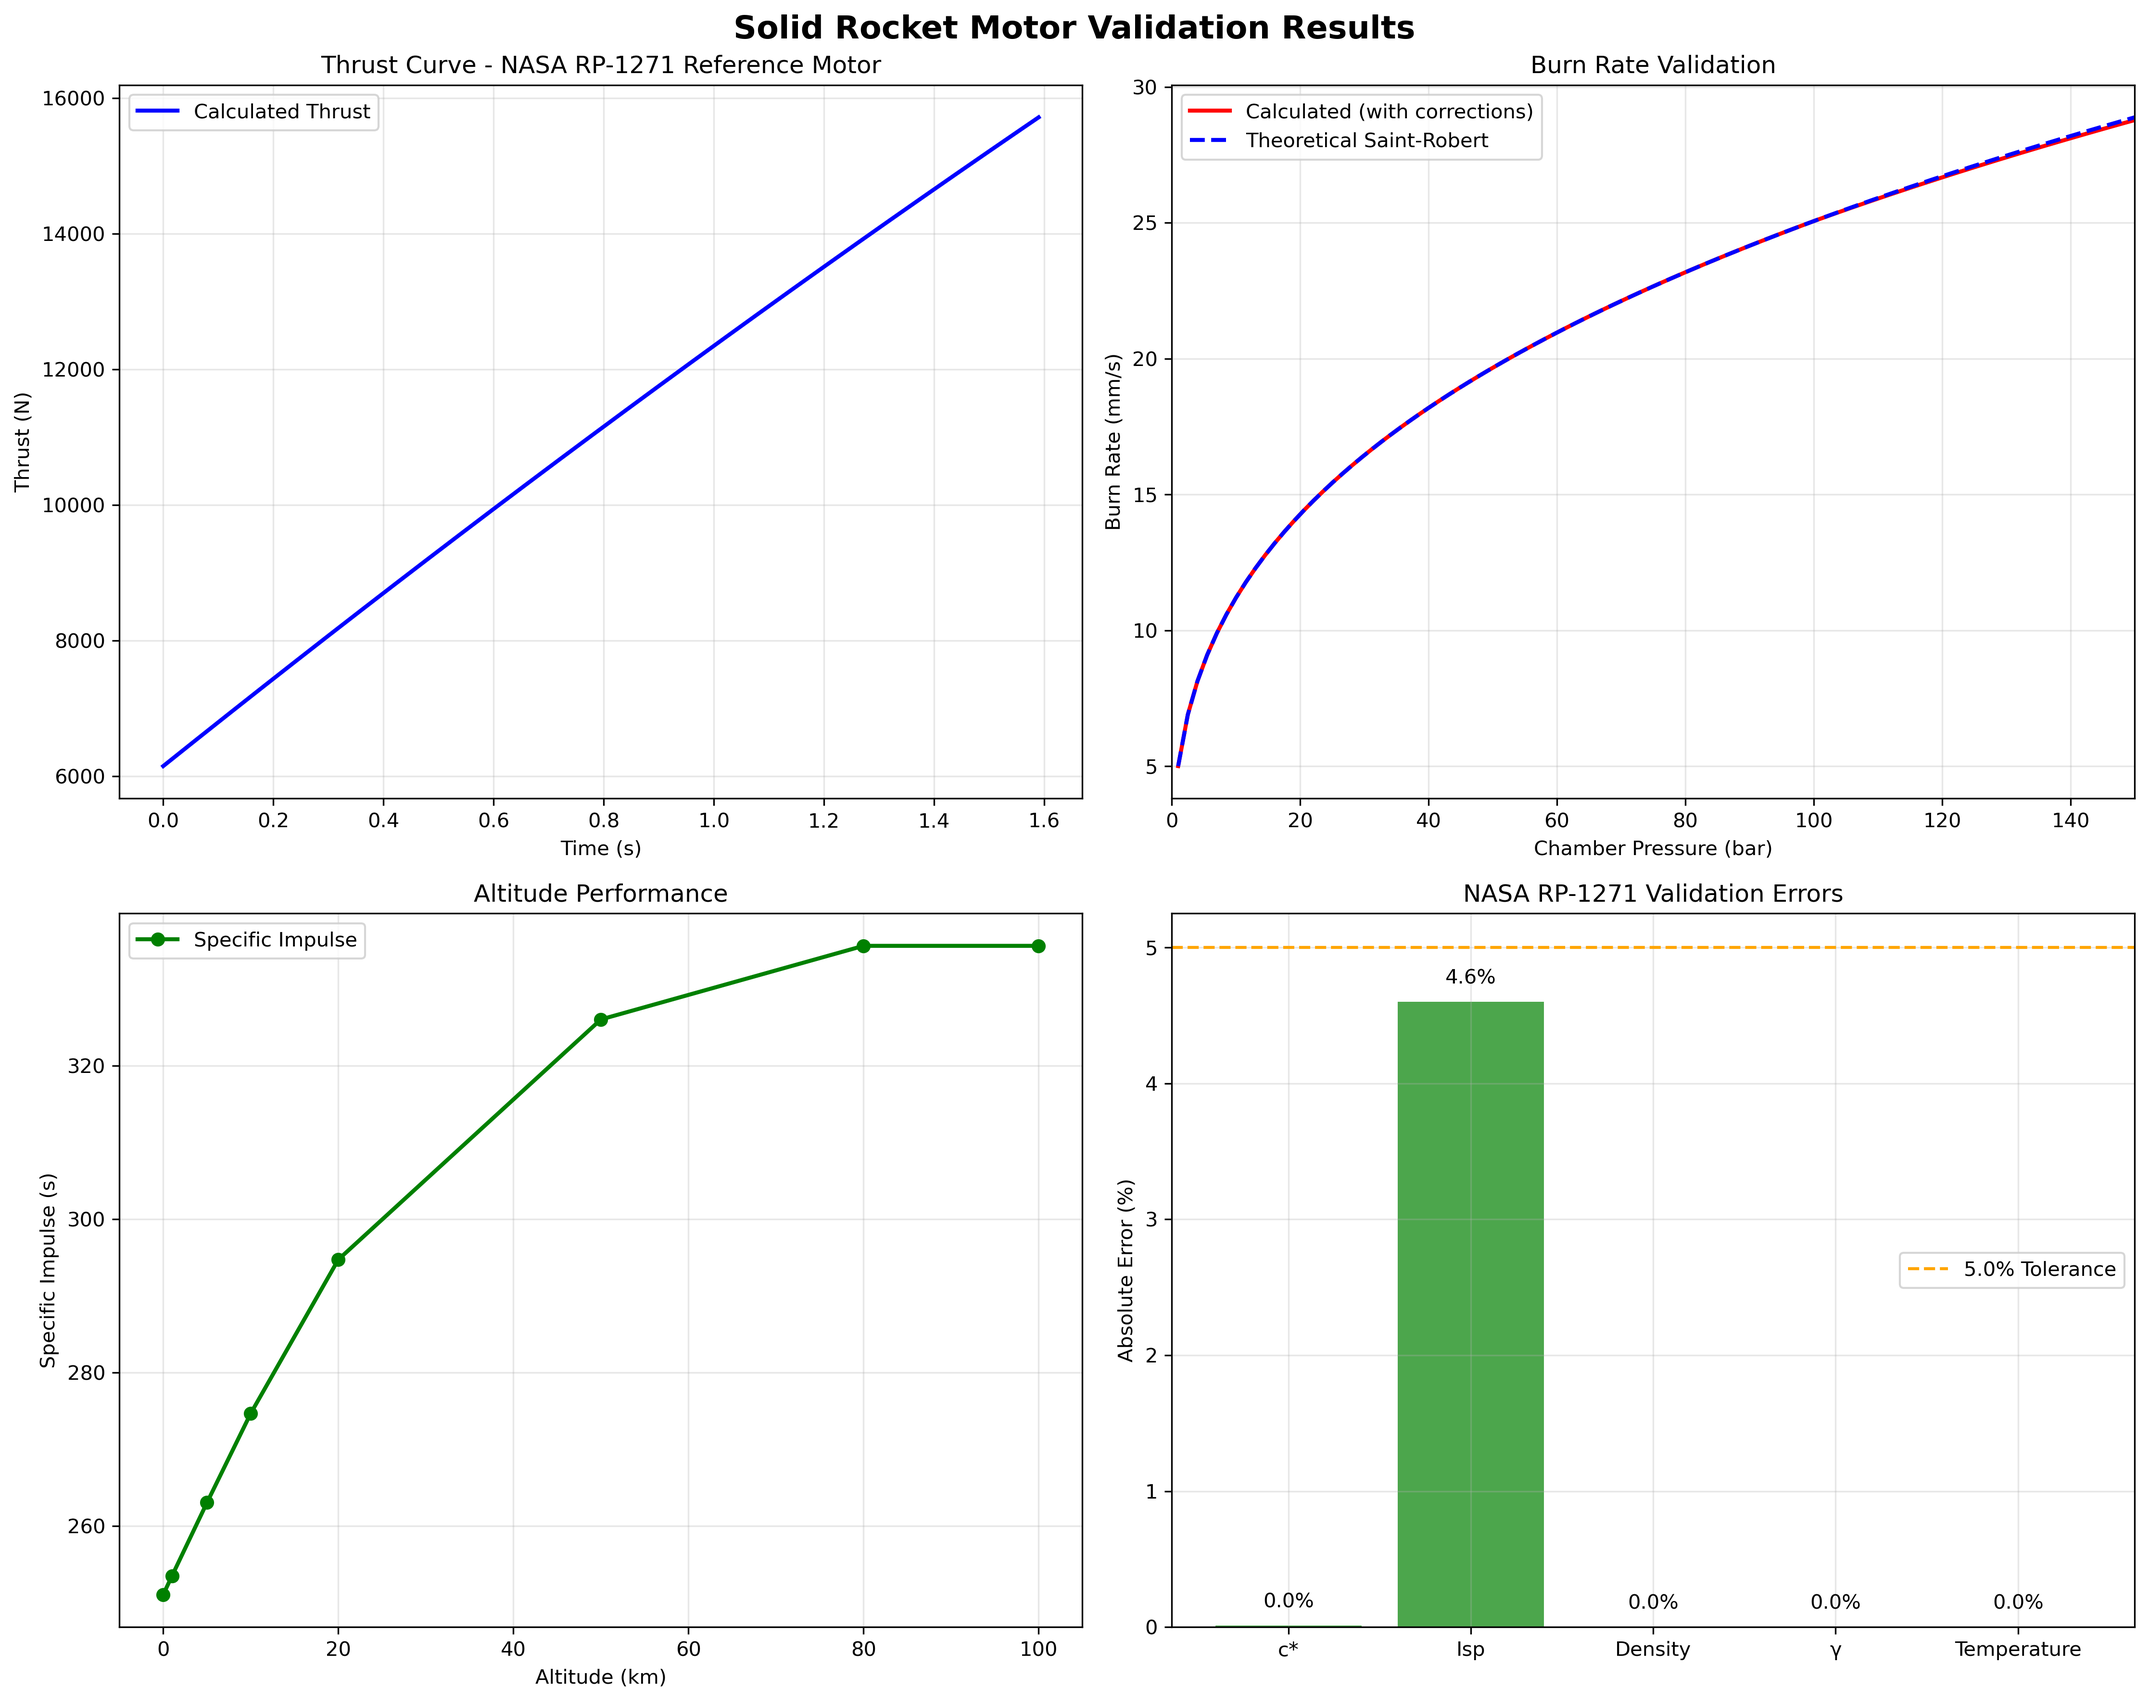
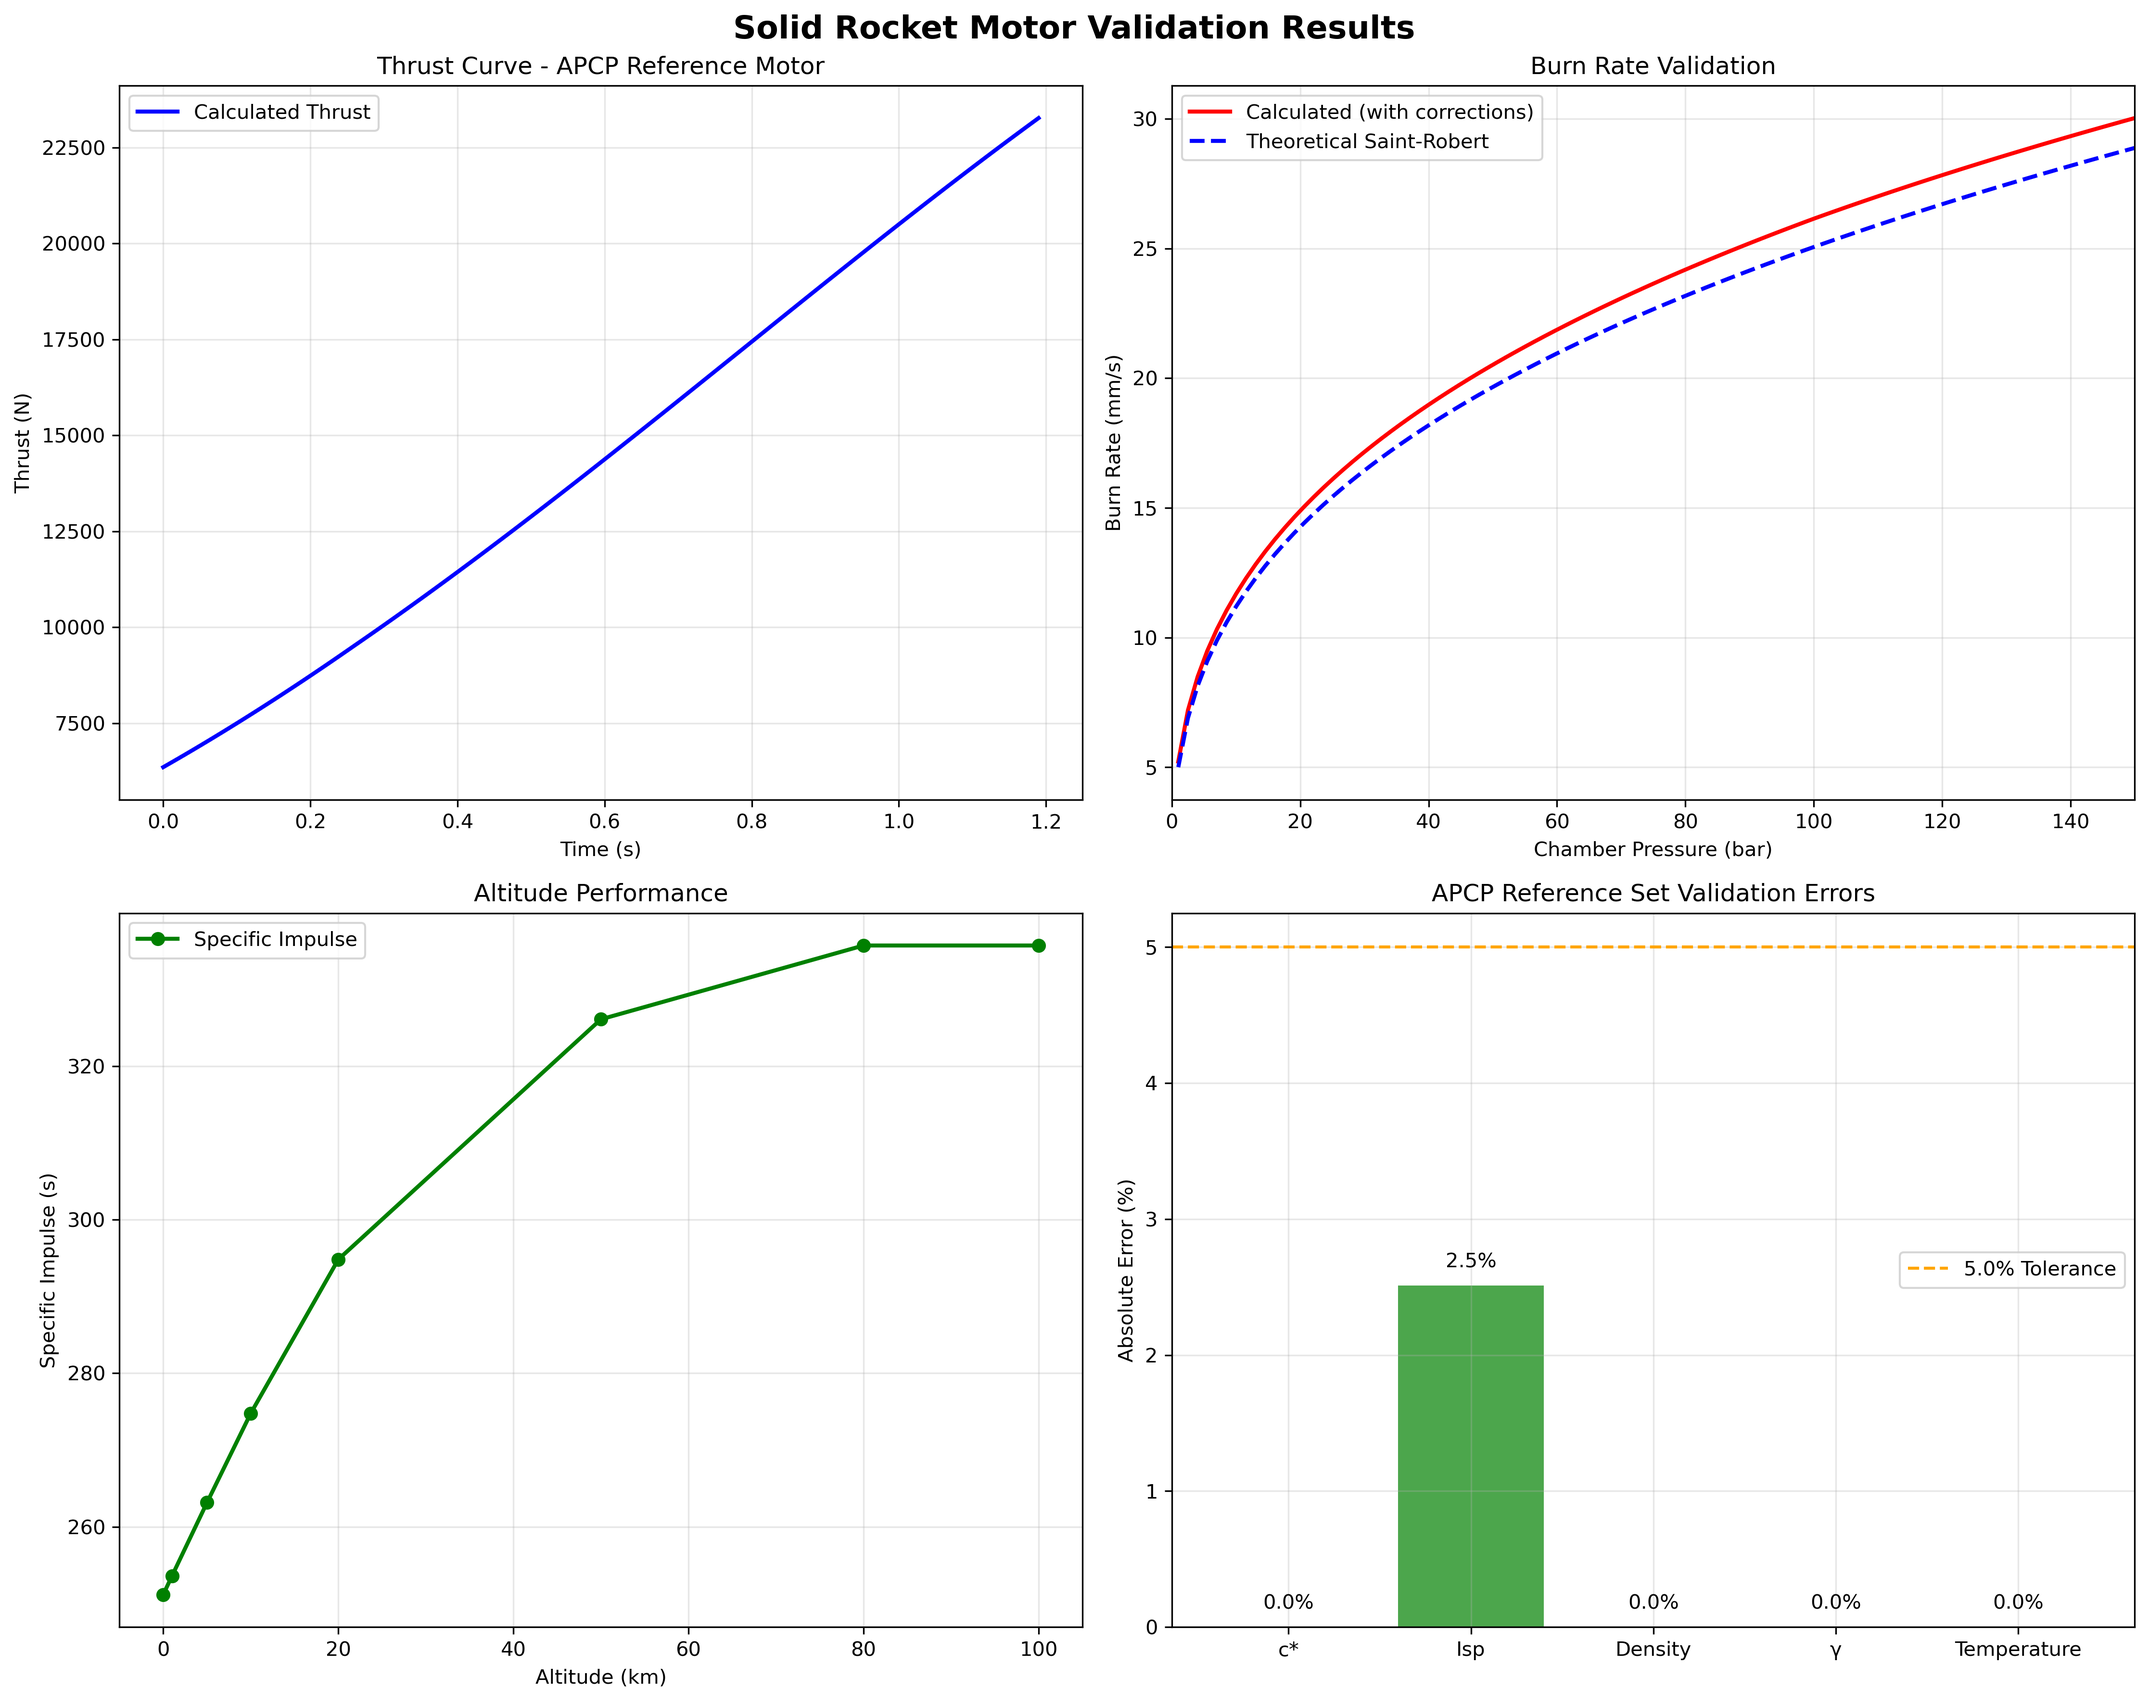
Paper: konik nozul diverjans katsayısı düzeltildi (λ=0.955→0.983, (1+cos α)/2 ile) + g0=9.80665 BIPM + validation grafiği güncellendi

diff --git a/HRMA_Paper.md b/HRMA_Paper.md
@@ -164,7 +164,7 @@ The thrust coefficient $C_F$ relates the thrust to the chamber pressure and thro
 
 $$C_F = \lambda\,\sqrt{\frac{2\gamma^2}{\gamma-1}\left(\frac{2}{\gamma+1}\right)^{(\gamma+1)/(\gamma-1)}\left[1 - \left(\frac{p_e}{P_c}\right)^{(\gamma-1)/\gamma}\right]} + \frac{(p_e - p_a)\,\varepsilon}{P_c}$$
 
-where $\lambda$ is a nozzle divergence correction factor: $\lambda = 0.985$ for bell (Rao-optimized) nozzles, $\lambda = 0.975$ for parabolic contours, and $\lambda = 0.955$ for conical nozzles with a 15-degree half-angle. The specific impulse follows directly as $I_{sp} = C_F C^* / g_0$, where $g_0 = 9.81$ m/s².
+where $\lambda$ is a nozzle divergence correction factor: $\lambda = 0.985$ for bell (Rao-optimized) nozzles, $\lambda = 0.975$ for parabolic contours, and $\lambda = 0.983$ for conical nozzles with a 15-degree half-angle. The conical value follows directly from the standard relation $\lambda = (1 + \cos\alpha)/2$ with $\alpha = 15^{\circ}$, giving $\lambda = (1 + 0.9659)/2 = 0.98296 \approx 0.983$. The specific impulse follows directly as $I_{sp} = C_F C^* / g_0$, where $g_0 = 9.80665$ m/s$^2$ (BIPM standard).
 
 Altitude-dependent performance is computed by evaluating the thrust equation at discrete altitudes using the International Standard Atmosphere (ISA) model. Below 11 km, $T(h) = 288.15 - 0.0065h$ and $P(h) = 1.01325(T/288.15)^{5.256}$; above 11 km, the isothermal stratosphere model applies with $P(h) = 0.22632\exp[-g_0 M(h-11000)/(R_u T)]$. Both vacuum specific impulse ($I_{sp,vac}$, at $p_a = 0$) and sea-level specific impulse ($I_{sp,SL}$, at $p_a = 1.01325$ bar) are reported, along with the thrust variation with altitude. HRMA also determines the optimum O/F ratio for maximum $I_{sp}$ via bounded scalar minimization of $-I_{sp}(\text{O/F})$ over the range [1.0, 10.0], evaluating the full combustion equilibrium at each candidate O/F.
 
